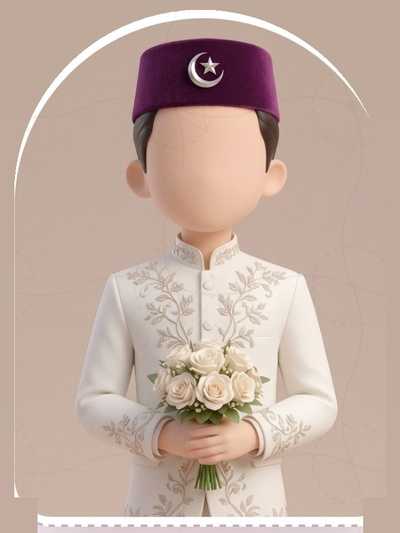
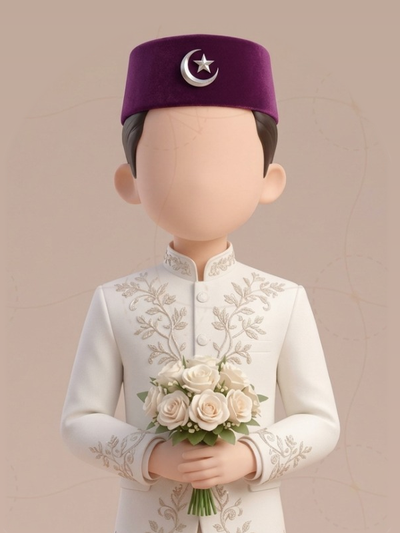
fix: clean groom portrait borders, remove artifacts, and increase audio volume to 0.45

diff --git a/Undangan-Shofa-Ari.html b/Undangan-Shofa-Ari.html
@@ -1427,7 +1427,7 @@ class Component extends DCLogic {
       }
       this.audio = a;
       try {
-        this.audio.volume = 0.22;
+        this.audio.volume = 0.45;
       } catch (e) {}
 
       if (!this._ytBound) {
@@ -1456,7 +1456,7 @@ class Component extends DCLogic {
     try {
       if (!this.audio) this.initAudio();
       if (this.audio) {
-        try { this.audio.volume = 0.22; } catch (e) {}
+        try { this.audio.volume = 0.45; } catch (e) {}
         const p = this.audio.play();
         if (p && p.catch) {
           p.catch((e) => console.log("Audio autoplay prevented or waiting for interaction:", e));

diff --git a/index.html b/index.html
@@ -1427,7 +1427,7 @@ class Component extends DCLogic {
       }
       this.audio = a;
       try {
-        this.audio.volume = 0.22;
+        this.audio.volume = 0.45;
       } catch (e) {}
 
       if (!this._ytBound) {
@@ -1456,7 +1456,7 @@ class Component extends DCLogic {
     try {
       if (!this.audio) this.initAudio();
       if (this.audio) {
-        try { this.audio.volume = 0.22; } catch (e) {}
+        try { this.audio.volume = 0.45; } catch (e) {}
         const p = this.audio.play();
         if (p && p.catch) {
           p.catch((e) => console.log("Audio autoplay prevented or waiting for interaction:", e));
